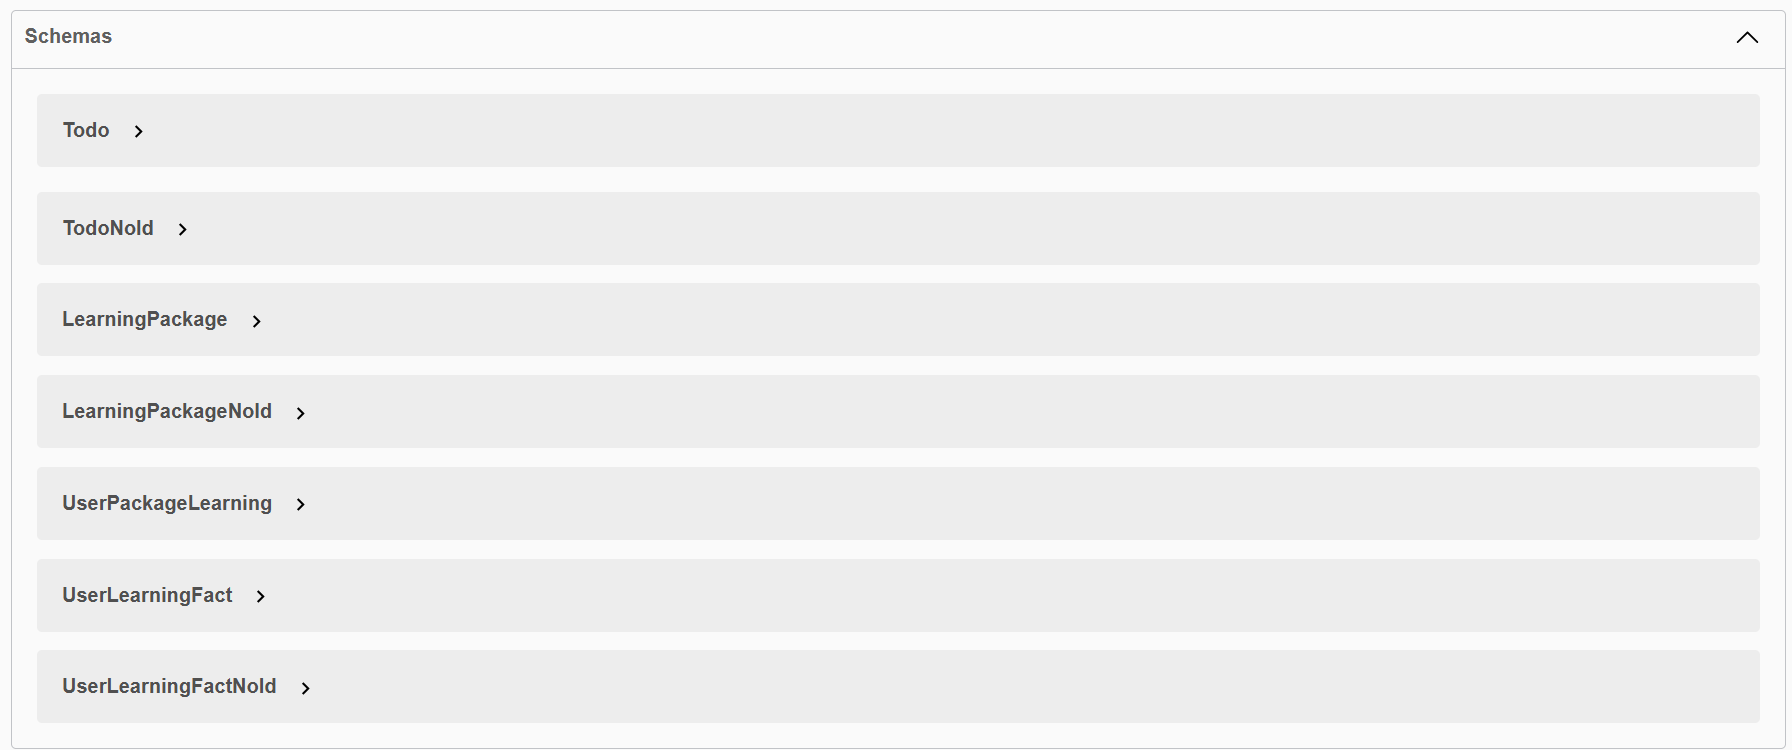
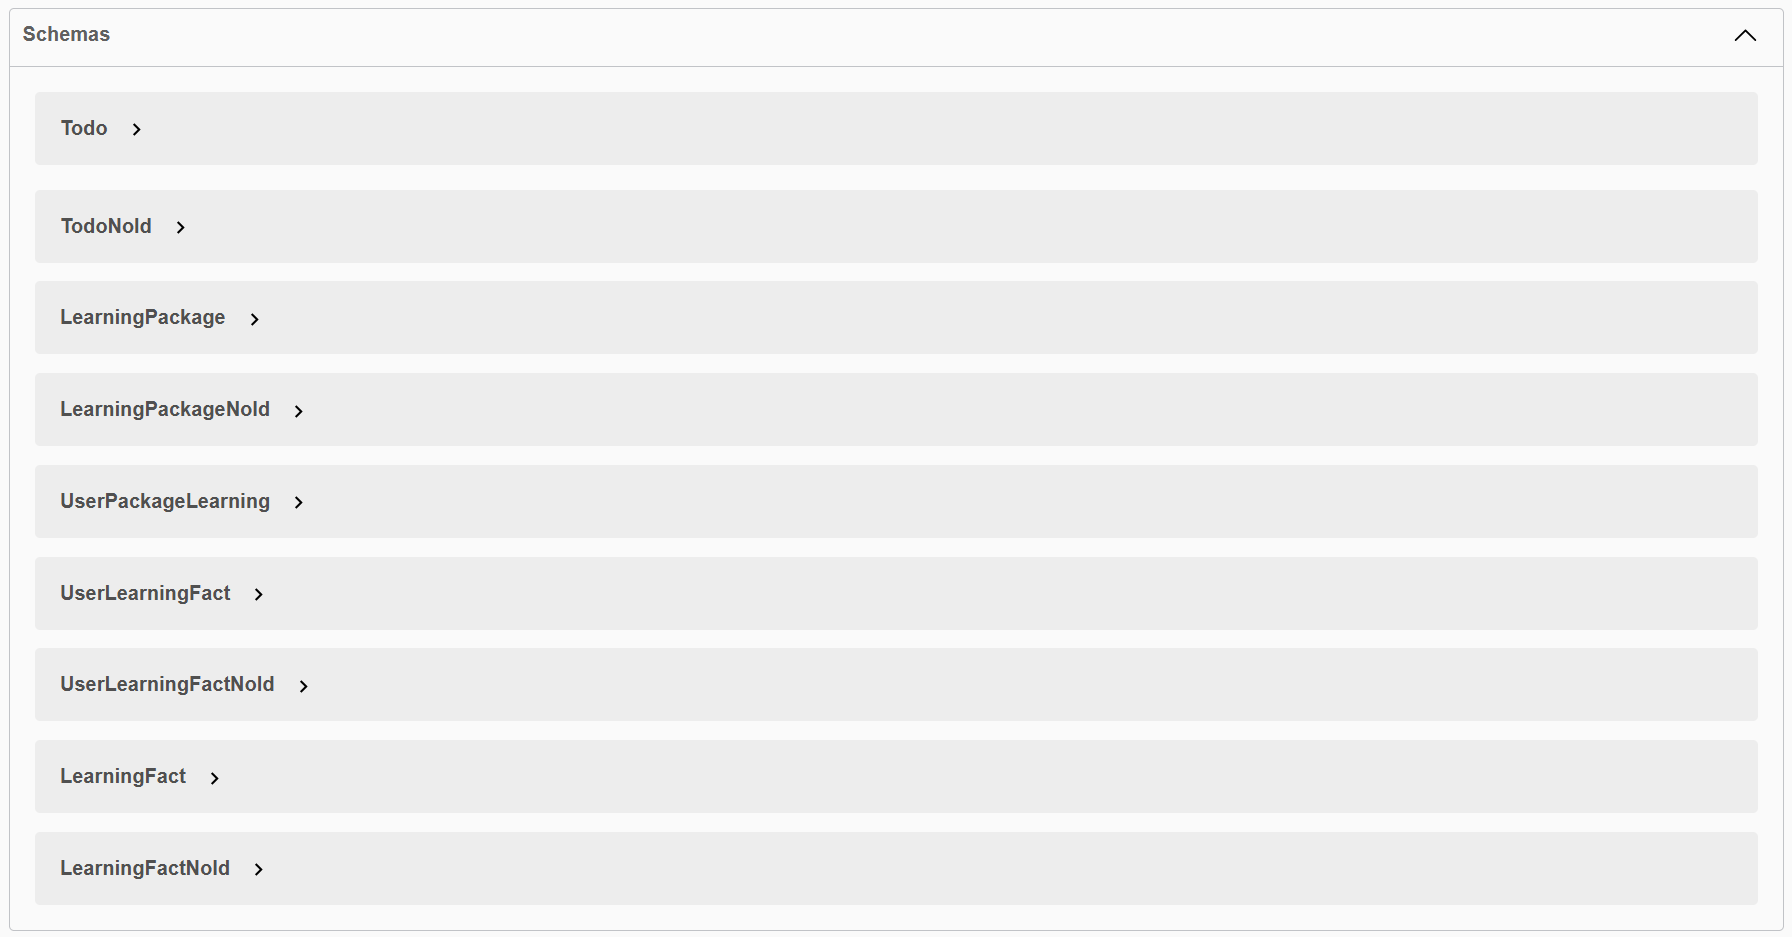
Add Crud Learning Fact

diff --git a/backend/app-todo.ts b/backend/app-todo.ts
@@ -5,6 +5,7 @@ import swaggerUi = require('swagger-ui-express');
 
 import LearningPackage from './models/LearningPackage';
 import LearningFact from "./models/LearningFact";
+
 const cors = require('cors');
 
 const app = express();
@@ -143,6 +144,26 @@ const jsDocOptions = {
                         },
                     },
                 },
+                LearningFact: {
+                    type: 'object',
+                    properties: {
+                        id: {type: 'integer'},
+                        timesReviewed: {type: 'integer'},
+                        confidenceLevel: {type: 'integer'},
+                        lastReviewedDate: {type: 'string', format: 'date'},
+                        packageId: {type: 'integer'},
+                        disabled: {type: 'boolean'}
+                    }
+                },
+                LearningFactNoId: {
+                    type: 'object',
+                    properties: {
+                        timesReviewed: {type: 'integer'},
+                        confidenceLevel: {type: 'integer'},
+                        lastReviewedDate: {type: 'string', format: 'date'},
+                        packageId: {type: 'integer'}
+                    }
+                }
             },
         },
     },
@@ -371,9 +392,6 @@ app.get('/api/package', async (req: Request, res: Response) => {
         res.status(500).json({error: 'Internal server error.'});
     }
 });
-/*app.get('/api/package', (req, res) => {
-    res.status(200).json(learningPackages);
-});*/
 
 /**
  * @openapi
@@ -409,17 +427,6 @@ app.get('/api/package/:id', async (req: Request, res: Response) => {
         res.status(500).json({error: 'Internal server error.'});
     }
 });
-/*app.get('/api/package/:id', (req, res) => {
-    const id = +req.params['id']
-    console.log('handle http GET /api/package/:id', id);
-    const idx = learningPackages.findIndex((x) => x.id === id);
-    if (idx !== -1) {
-        const found = learningPackages[idx];
-        res.send(found);
-    } else {
-        res.status(404).send('Learning Package entity not found by id:' + id);
-    }
-});*/
 
 /**
  * @openapi
@@ -447,13 +454,6 @@ app.post('/api/package', async (req: Request, res: Response) => {
         res.status(400).json({error: 'Error during validation or creation.'});
     }
 });
-/*app.post('/api/package', (req: Request, res: Response) => {
-    let item = <LearningPackage>req.body;
-    console.log('handle http POST /api/package', item);
-    item.id = newId();
-    learningPackages.push(item);
-    res.send(item);
-});*/
 
 /**
  * @openapi
@@ -525,34 +525,6 @@ app.put('/api/package/:id', async (req: Request, res: Response) => {
         res.status(500).json({error: 'Internal server error.'});
     }
 });
-/*app.put('/api/package', (req: Request, res: Response) => {
-    let item = <LearningPackage>req.body;
-    console.log('handle http PUT /api/package', item);
-    const id = item.id;
-    const idx = learningPackages.findIndex((x) => x.id === id);
-    if (idx !== -1) {
-        const found = learningPackages[idx];
-        if (item.title) {
-            found.title = item.title;
-        }
-        if (item.description) {
-            found.description = item.description;
-        }
-        if (item.category) {
-            found.category = item.category;
-        }
-        if (item.targetAudience) {
-            found.targetAudience = item.targetAudience;
-        }
-        if (item.difficulty) {
-            found.difficulty = item.difficulty;
-        }
-        res.send(found);
-    } else {
-        res.status(404).send('Learning Package entity not found by id:' + id);
-    }
-});
-*/
 
 /**
  * @openapi
@@ -569,15 +541,166 @@ app.put('/api/package/:id', async (req: Request, res: Response) => {
  *               items:
  *                 $ref: '#/components/schemas/LearningPackage'
  */
-/*app.get('/api/package-summaries', (req, res) => {
-    const packageSummaries = learningPackages.map(item => ({
-        id: item.id,
-        title: item.title,
-    }));
-    res.status(200).json(packageSummaries);
-});*/
+
 
 // Endpoint LearningFact
+
+/**
+ * @openapi
+ * /api/fact:
+ *   get:
+ *     description: Get all LearningFacts
+ *     responses:
+ *       200:
+ *         description: An array of LearningFacts
+ *         content:
+ *           application/json:
+ *             schema:
+ *               type: array
+ *               items:
+ *                 $ref: '#/components/schemas/LearningFact'
+ */
+app.get('/api/fact', async (req: Request, res: Response) => {
+    try {
+        const facts = await LearningFact.findAll();
+        res.status(200).json(facts);
+    } catch (err) {
+        console.error('Error retrieving LearningFacts:', err);
+        res.status(500).json({ error: 'Internal server error.' });
+    }
+});
+
+
+/**
+ * @openapi
+ * /api/package/{id}/fact:
+ *   post:
+ *     description: Create and add a new LearningFact to a given package
+ *     parameters:
+ *       - name: id
+ *         in: path
+ *         required: true
+ *         description: The ID of the Learning Package
+ *         schema:
+ *           type: integer
+ *     requestBody:
+ *       required: true
+ *       content:
+ *         application/json:
+ *           schema:
+ *             $ref: '#/components/schemas/UserLearningFactNoId'
+ *     responses:
+ *       201:
+ *         description: LearningFact created successfully
+ *       400:
+ *         description: Invalid data or package not found
+ */
+app.post('/api/package/:id/fact', async (req: Request, res: Response) => {
+    try {
+        const packageId = +req.params.id;
+        const learningPackage = await LearningPackage.findByPk(packageId);
+
+        if (!learningPackage) {
+            res.status(400).json({error: `Package with ID ${packageId} not found.`});
+        }
+
+        const newFact = await LearningFact.create({...req.body, packageId});
+        res.status(201).json(newFact);
+    } catch (err) {
+        console.error('Error creating LearningFact:', err);
+        res.status(400).json({error: 'Error during creation.'});
+    }
+});
+
+/**
+ * @openapi
+ * /api/package/{id}/fact:
+ *   put:
+ *     description: Update an existing LearningFact of a given package
+ *     parameters:
+ *       - name: id
+ *         in: path
+ *         required: true
+ *         description: The ID of the Learning Package
+ *         schema:
+ *           type: integer
+ *     requestBody:
+ *       required: true
+ *       content:
+ *         application/json:
+ *           schema:
+ *             $ref: '#/components/schemas/UserLearningFact'
+ *     responses:
+ *       200:
+ *         description: LearningFact updated successfully
+ *       400:
+ *         description: Invalid data or LearningFact not found
+ */
+app.put('/api/package/:id/fact', async (req: Request, res: Response) => {
+    try {
+        const packageId = +req.params.id;
+        const {id, ...data} = req.body;
+
+        const learningFact = await LearningFact.findOne({where: {id, packageId}});
+
+        if (!learningFact) {
+            res.status(400).json({error: 'LearningFact not found or invalid package ID.'});
+        }
+
+        if (learningFact) {
+            await learningFact.update(data);
+        }
+        res.status(200).json(learningFact);
+    } catch (err) {
+        console.error('Error updating LearningFact:', err);
+        res.status(500).json({error: 'Internal server error.'});
+    }
+});
+
+/**
+ * @openapi
+ * /api/package/{id}/fact:
+ *   delete:
+ *     description: Delete or disable an existing LearningFact
+ *     parameters:
+ *       - name: id
+ *         in: path
+ *         required: true
+ *         description: The ID of the Learning Package
+ *         schema:
+ *           type: integer
+ *     requestBody:
+ *       required: true
+ *       content:
+ *         application/json:
+ *           schema:
+ *             $ref: '#/components/schemas/UserLearningFact'
+ *     responses:
+ *       200:
+ *         description: LearningFact marked as disabled
+ *       400:
+ *         description: LearningFact not found
+ */
+app.delete('/api/package/:id/fact', async (req: Request, res: Response) => {
+    try {
+        const packageId = +req.params.id;
+        const {id} = req.body;
+
+        const learningFact = await LearningFact.findOne({where: {id, packageId}});
+
+        if (!learningFact) {
+            res.status(400).json({error: 'LearningFact not found or invalid package ID.'});
+        }
+
+        if (learningFact) {
+            await learningFact.update({disabled: true});
+        }
+        res.status(200).json({message: 'LearningFact successfully disabled.'});
+    } catch (err) {
+        console.error('Error disabling LearningFact:', err);
+        res.status(500).json({error: 'Internal server error.'});
+    }
+});
 
 
 // app.patch()

diff --git a/backend/models/LearningFact.ts b/backend/models/LearningFact.ts
@@ -1,6 +1,6 @@
 import { DataTypes } from 'sequelize';
 import sequelize from '../database';
-import LearningPackage from './LearningPackage';
+import LearningPackage from "./LearningPackage";
 
 const LearningFact = sequelize.define('LearningFact', {
     id: {
@@ -21,6 +21,10 @@ const LearningFact = sequelize.define('LearningFact', {
     lastReviewedDate: {
         type: DataTypes.DATE,
         allowNull: true,
+    },
+    packageId: {
+        type: DataTypes.INTEGER,
+        allowNull: false,
     },
 });
 

diff --git a/backend/README.md b/backend/README.md
@@ -60,7 +60,7 @@ npm run test-db
 ---
 
 ## Features
-- CRUD operations for Todos and Learning Packages.
+- CRUD operations for Todos and Learning Packages and Learning Fact.
 - Swagger documentation for API navigation.
 - Database synchronization with PostgreSQL.
 
